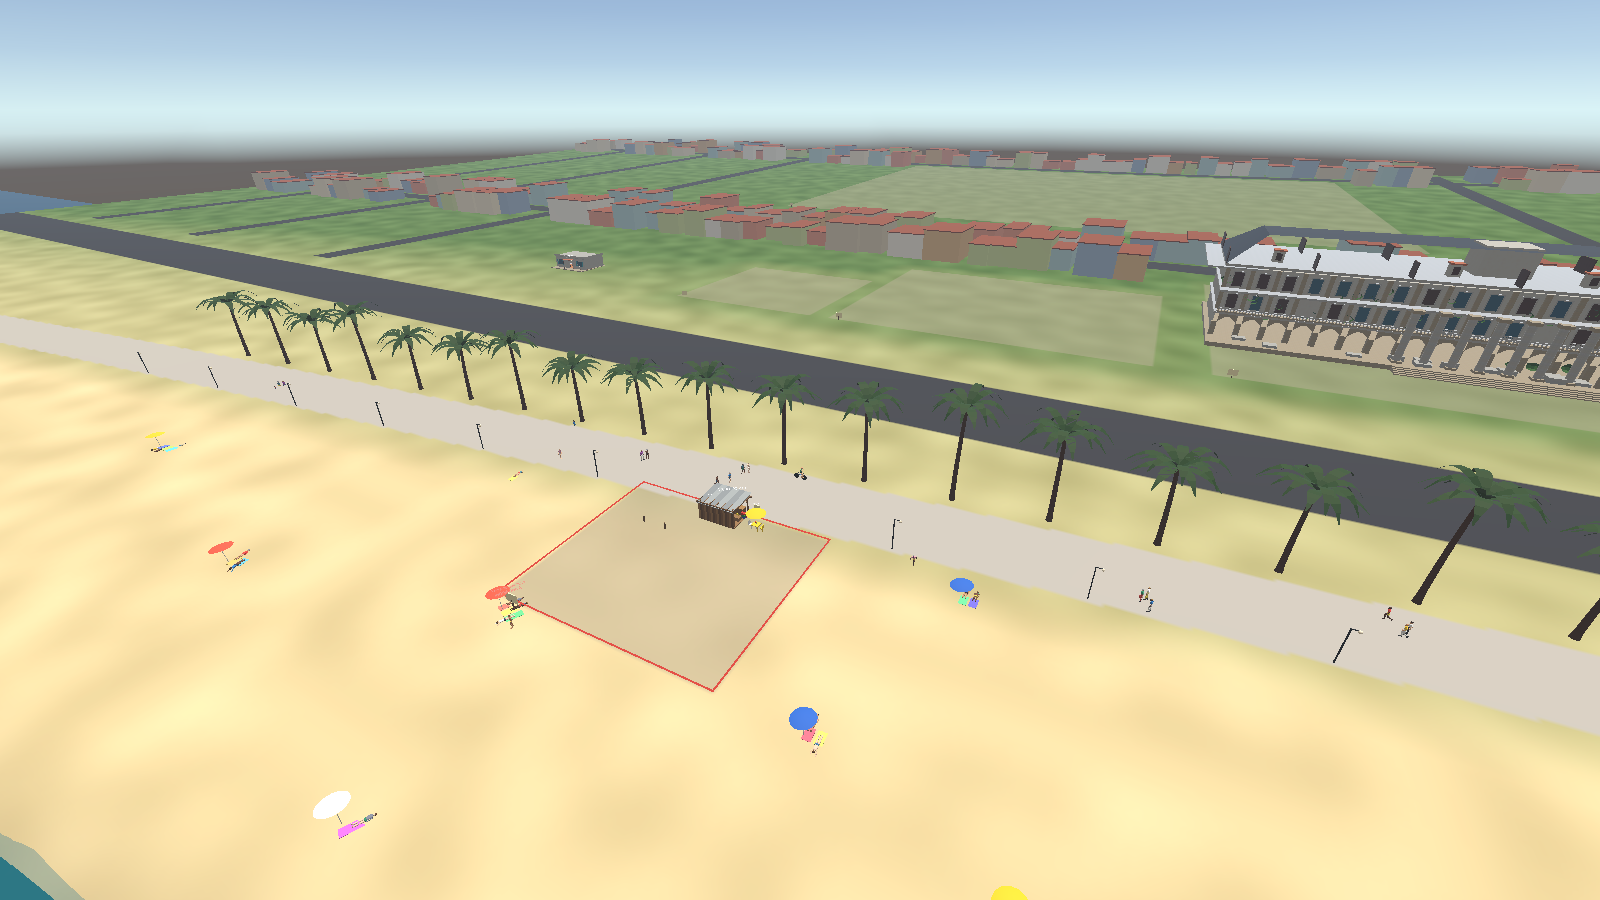
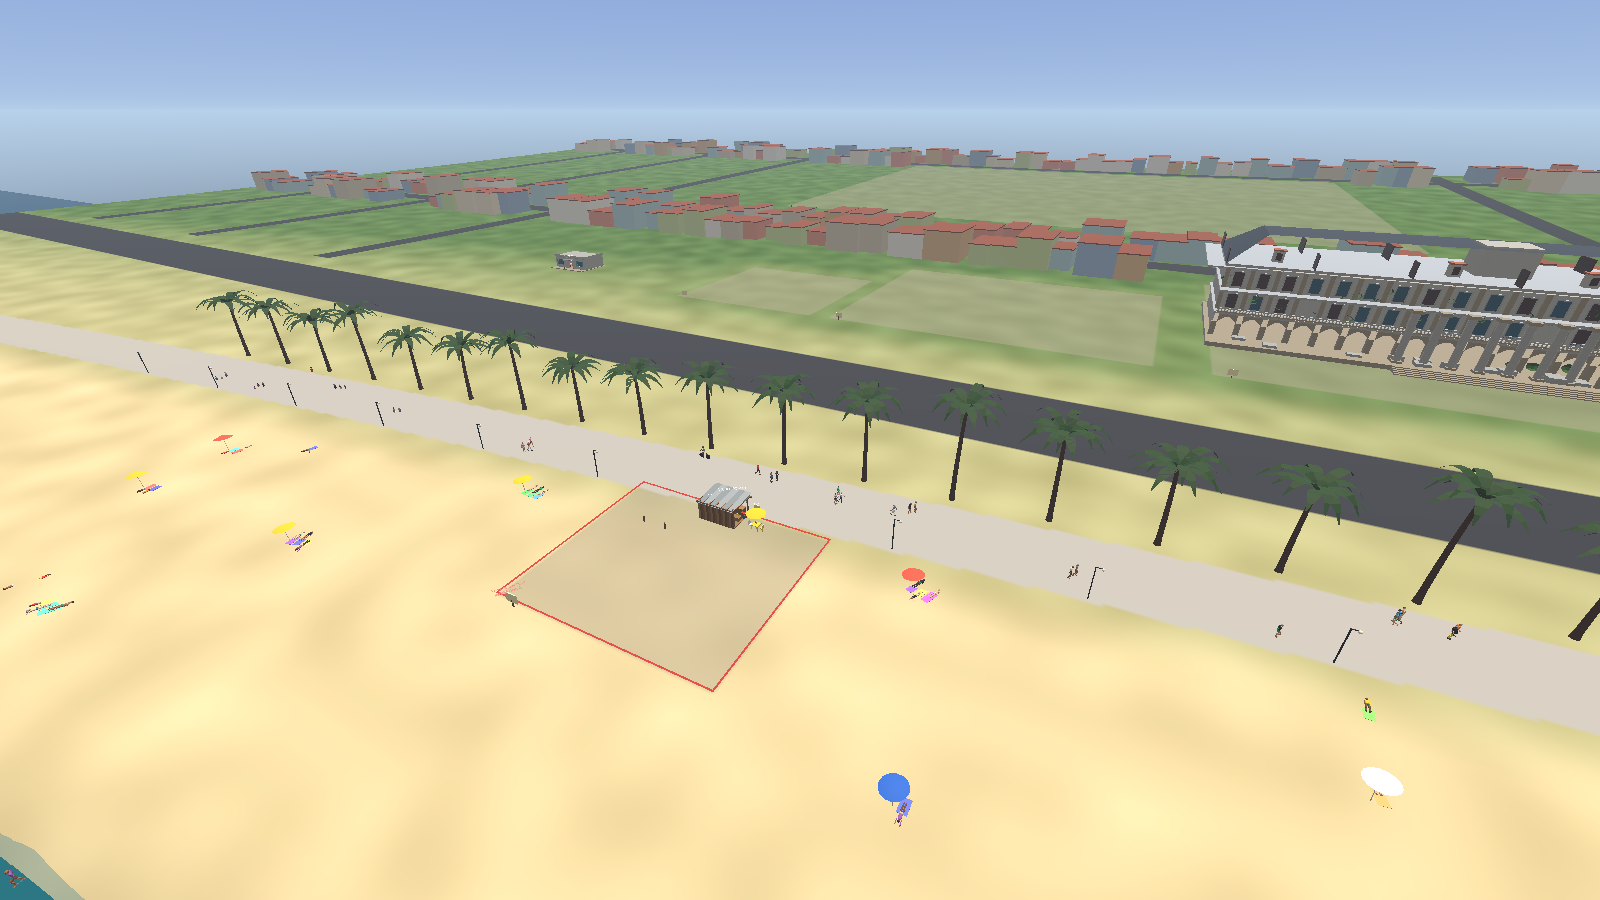
Phase 02: custom gradient sky shader (violet dusk, deep-blue night with stars) replacing the olive/black procedural sky

diff --git a/FacilityOps/Assets/_Game/Scripts/Resort/Game/DayNightCycle.cs b/FacilityOps/Assets/_Game/Scripts/Resort/Game/DayNightCycle.cs
@@ -20,6 +20,7 @@ namespace ResortAurora.Game
         ResortGame game;
         Light sun, moon;
         Material sky, lampMat, starMat, moonMat;
+        bool customSky;
         Transform dome;
         readonly List<Lamp> lamps = new List<Lamp>();
         Light[] pool;
@@ -40,7 +41,9 @@ namespace ResortAurora.Game
             moon = moonGo.AddComponent<Light>();
             moon.type = LightType.Directional; moon.color = new Color(0.55f, 0.66f, 1f); moon.intensity = 0f; moon.shadows = LightShadows.None;
 
-            var skyShader = Shader.Find("Skybox/Procedural");
+            var skyShader = Shader.Find("ResortAurora/Sky");
+            customSky = skyShader != null;
+            if (!customSky) skyShader = Shader.Find("Skybox/Procedural");                // stock fallback if the shader was stripped
             if (skyShader != null) { sky = new Material(skyShader) { name = "DaySky" }; RenderSettings.skybox = sky; }
             RenderSettings.sun = sun;
             RenderSettings.ambientMode = AmbientMode.Trilight;
@@ -174,11 +177,28 @@ namespace ResortAurora.Game
             RenderSettings.ambientEquatorColor = Amb(new Color(0.62f, 0.60f, 0.56f), new Color(0.40f, 0.30f, 0.30f), new Color(0.09f, 0.11f, 0.19f));
             RenderSettings.ambientGroundColor = Amb(new Color(0.40f, 0.34f, 0.26f), new Color(0.22f, 0.16f, 0.14f), new Color(0.05f, 0.05f, 0.08f));
             RenderSettings.reflectionIntensity = Mathf.Lerp(1f, 0.12f, night);
+            // horizon (also the fog and the sea's far colour): blue day, orange sunset, violet dusk, deep blue night; the dusk only shows while night rises
+            float dusk = Mathf.Sin(Mathf.Clamp01(night) * Mathf.PI) * (elev < 4f ? 1f : 0f);
             var horizon = Color.Lerp(Color.Lerp(new Color(0.72f, 0.82f, 0.92f), new Color(0.95f, 0.55f, 0.40f), golden), new Color(0.04f, 0.06f, 0.13f), night);
+            horizon = Color.Lerp(horizon, new Color(0.40f, 0.26f, 0.44f), dusk * 0.55f);
             RenderSettings.fogColor = horizon;
             RenderSettings.fogDensity = Mathf.Lerp(0.00035f, 0.0007f, Mathf.Max(golden * 0.6f, night));
 
-            if (sky != null)
+            if (sky != null && customSky)
+            {
+                var zenith = Color.Lerp(new Color(0.14f, 0.36f, 0.78f), new Color(0.22f, 0.27f, 0.54f), golden);
+                zenith = Color.Lerp(zenith, new Color(0.02f, 0.035f, 0.10f), night);
+                zenith = Color.Lerp(zenith, new Color(0.14f, 0.12f, 0.30f), dusk * 0.5f);
+                float glowK = golden * golden * (1f - night) * Mathf.Clamp01((elev + 22f) / 24f);     // the sky keeps its afterglow while the sun is a little below the horizon
+                sky.SetColor("_Zenith", zenith);
+                sky.SetColor("_Horizon", horizon);
+                sky.SetColor("_Ground", horizon * 0.55f);
+                sky.SetVector("_SunDir", sun != null ? -sun.transform.forward : Vector3.up);
+                sky.SetColor("_SunColor", (sun != null ? sun.color : Color.white) * Mathf.Clamp01((elev + 2f) / 6f));
+                sky.SetColor("_Glow", new Color(1f, 0.52f, 0.26f) * (0.55f * glowK));
+                sky.SetFloat("_SunDisc", 1f);
+            }
+            else if (sky != null)
             {
                 sky.SetFloat("_SunSize", 0.04f);
                 sky.SetFloat("_AtmosphereThickness", Mathf.Lerp(1.0f, 1.6f, golden));

diff --git a/Docs/PROJECT_RESORT_EXECUTION/CLAUDE_CURRENT_TASK.md b/Docs/PROJECT_RESORT_EXECUTION/CLAUDE_CURRENT_TASK.md
@@ -1,6 +1,6 @@
 # PROJECT RESORT — Tarefa Atual do Claude
 
-Atualizado em 2026-10-06 (fim da rodada 3 de refinamentos seguros da Fase 02).
+Atualizado em 2026-10-06 (fim da rodada 4 de refinamentos seguros da Fase 02).
 
 ## Fase atual
 
@@ -19,19 +19,20 @@ A Fase 03 NÃO está liberada.
 - Capturas reais: `ArtSource/Blender/World/Reviews/F02/` e `Desktop\Capturas PROJECT RESORT\01_Unity_Reais\F02_praia_viva_dia_noite\`.
 - Rodada 2 (feita): clientes sentam nas mesas do deck do quiosque do estágio 2 (10 cadeiras, rota própria, altura do deck); HUD com faixa de "próximo passo" + estoque baixo + ABERTO/FECHADO + vendas do dia; guarda de balanceamento do primeiro dia. Captura: `f02_7_estagio2_clientes_no_deck.png`.
 - Rodada 3 (feita): mar com shader próprio (`Resources/ResortSea.shader`: cor por profundidade, ondulação, Fresnel, brilho) e malha que segue a linha d'água; céu noturno sem o brilho amarelo (o sol agora desce abaixo do horizonte). 20/20 testes, sem regressão de desempenho (2,8 ms).
-- Relatório: `RELATORIO_02_VERTICAL_SLICE_QUIOSQUE.md` (adendos 1, 2 e 3 de 2026-10-06).
+- Rodada 4 (feita): céu com shader próprio (`Resources/ResortSky.shader`): crepúsculo violeta e noite azul-marinho com estrelas no lugar do oliva/preto; 20/20 testes, 0 erros de shader.
+- Relatório: `RELATORIO_02_VERTICAL_SLICE_QUIOSQUE.md` (adendos 1 a 4 de 2026-10-06).
 
 ## Pendente (nada disso se resolve só com código)
 
 1. **HUMAN_GATE_PENDING**: uma pessoa precisa jogar dois dias e avaliar ritmo, clareza do HUD, diversão e a "vida" da praia; ouvir o áudio; olhar as capturas.
-2. Gate visual segue aberto: personagens/quiosque/guarda-sóis ainda são blockout; mar com shader simples (sem refração/reflexo de objetos); noite com céu preto e estrelas.
+2. Gate visual segue aberto: personagens/quiosque/guarda-sóis ainda são blockout; mar com shader simples (sem refração/reflexo de objetos); noite sem nuvens nem reflexo de objetos na água.
 
 ## Trabalho seguro dentro da Fase 02 (se a rodada continuar antes do gate humano)
 
 - ~~Clientes sentarem nas mesas no estágio 2~~ (feito). ~~HUD de próximo passo~~ (feito; falta olhar humano).
 - Corrigir no Blender (`Tools/Blender/sa_stages.py::kiosk`) a mesa oeste a 7 m que cai dentro do bloco de banheiros e então reativar essa mesa em `StallLayout.AddKioskSeats` (exige o `.blend` base e regenerar/re-exportar o FBX do estágio 2).
 - Sentar/deitar/nadar ainda são procedurais: avaliar clipes gratuitos (Human Crafting Animations FREE, Creative Characters FREE) e o aspecto dos corpos animados; se os manequins ainda parecerem artificiais de perto, o Diretor deve apresentar 1–3 opções pagas ao usuário antes de comprar qualquer coisa.
-- Refinar o rig/roupas dos NPCs; mar sem espuma de profundidade/reflexos de objetos e céu noturno preto sem gradiente (cosmético); mais variedade de atividades na areia.
+- Refinar o rig/roupas dos NPCs; mar sem espuma de profundidade/reflexos de objetos e céu sem nuvens (cosmético); mais variedade de atividades na areia.
 - Equilíbrio fino da fila/spawn só com dados de jogada humana (curva atual: 6–8h quase sem clientes; o teste `FirstDayDemandIsWorthPlayingAndProfitable` protege a faixa).
 
 ## Próxima ação concreta

diff --git a/Docs/PROJECT_RESORT_EXECUTION/RELATORIO_02_VERTICAL_SLICE_QUIOSQUE.md b/Docs/PROJECT_RESORT_EXECUTION/RELATORIO_02_VERTICAL_SLICE_QUIOSQUE.md
@@ -117,3 +117,25 @@ Depois abrir `ResortPrologue` e jogar: olhar o calçadão às 12h, 18h20 e 20h30
 - O mar ainda não tem espuma de profundidade, refração real nem reflexo de objetos (planar/SSR); o brilho da lua é fraco nas capturas testadas.
 - O céu noturno é preto com estrelas (sem gradiente azul); o crepúsculo ainda é um oliva sujo do skybox procedural.
 - Nada disso foi visto por uma pessoa: o gate visual e o humano continuam abertos.
+
+
+---
+
+# Adendo 4 — shader de céu próprio (2026-10-06, rodada 4)
+
+**Status: COMPILADO, TESTADO (20/20 PlayMode, modo gráfico, 0 `error CS` / `Shader error` no log) e CAPTURADO. Gate técnico segue PASS. `HUMAN_GATE_PENDING` continua; a Fase 03 NÃO está liberada.**
+
+## O que mudou
+- **Céu com shader próprio** (`Resources/ResortSky.shader`, `ResortAurora/Sky`, URP/HLSL) no lugar do `Skybox/Procedural`: gradiente zênite -> horizonte dirigido pelo relógio, faixa quente do lado do sol, halo e disco solar, dither de 1/255 contra faixas. O horizonte do céu usa exatamente a cor da névoa, então céu, mar distante e névoa se encontram sem emenda em qualquer hora.
+- **`DayNightCycle.Apply`**: cores de zênite/horizonte por hora (azul de dia, lilás/laranja na tarde dourada, violeta no crepúsculo, azul-marinho profundo à noite); o crepúsculo roxo só aparece enquanto a noite sobe (`dusk`). Se o shader não for encontrado, cai no céu procedural antigo.
+- Antes: pôr do sol com céu oliva sujo e noite preta pura; agora: pôr do sol violeta e noite azul-marinho com estrelas.
+
+## Evidência
+- Execução A (código antigo, linha de base desta rodada): `TESTS total=20 passed=20 failed=0`.
+- Execução B (código novo): `TESTS total=20 passed=20 failed=0`. Luminância média das capturas: pôr do sol 0,20–0,23 (antes 0,13–0,19), noite 0,13–0,19 (antes 0,11–0,18); dia e tarde sem mudança relevante.
+- Capturas reais regeneradas: `ArtSource/Blender/World/Reviews/F02/f02_{1..4}_*.png` (ver `f02_3_por_do_sol_praia_para_o_mar.png`, `f02_4_noite_praia_para_o_mar.png`, `f02_2_tarde_dourada_calcadao_leste.png`).
+
+## Limitações
+- Sem nuvens; a tarde dourada ficou mais lilás que alaranjada nas capturas olhando para leste (o brilho quente fica do lado do sol, para oeste); ajuste fino de arte depende de olho humano.
+- O desempenho não foi remedido nesta rodada (o céu é um único quad de skybox, custo desprezível); a medição de 2,8 ms do adendo 3 permanece a última real.
+- Nada disso foi visto por uma pessoa: gate visual e humano continuam abertos.
